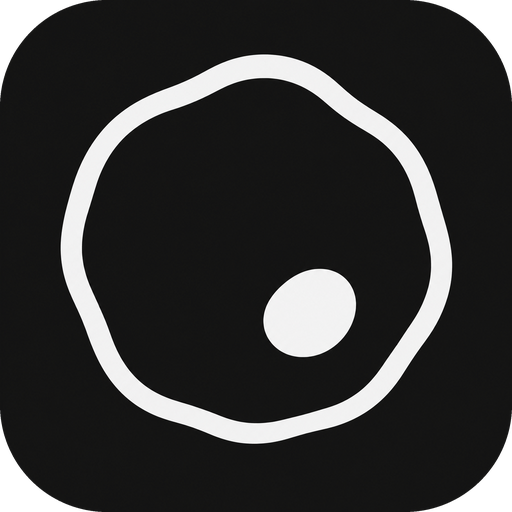
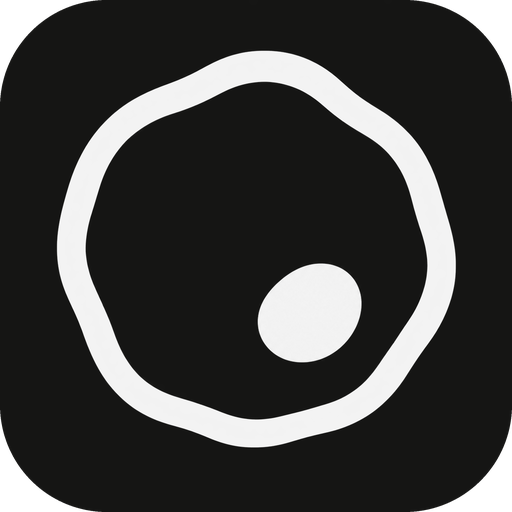
2.2.10: bolder oncOS cell and Orbit loader

diff --git a/cell-loader.js b/cell-loader.js
@@ -26,7 +26,7 @@ globalThis.OncosCellLoader = (() => {
 
   // One shared texture and animation clock for every visible loader.
   const textureSize = 256, instances = new Map();
-  let alpha = null, frame = 0, lastPaint = -Infinity, dirty = true;
+  let alpha = null, frame = 0, dirty = true;
   let reduced;
   function sample(x, y) {
     x *= textureSize - 1; y *= textureSize - 1;
@@ -36,32 +36,42 @@ globalThis.OncosCellLoader = (() => {
       +(alpha[i+textureSize]*(1-fx)+alpha[i+textureSize+1]*fx)*fy;
   }
   function geometry(n) {
-    const result=new Float32Array(n*n*5);
+    const result=new Float32Array(n*n*6);
     for(let y=0;y<n;y++)for(let x=0;x<n;x++){
-      const dx=(x+.5)/n-.5,dy=(y+.5)/n-.49,r=Math.hypot(dx,dy),a=Math.atan2(dy,dx),i=(y*n+x)*5;
+      const dx=(x+.5)/n-.5,dy=(y+.5)/n-.49,r=Math.hypot(dx,dy),i=(y*n+x)*6;
       const t=Math.max(0,Math.min(1,(r-.23)/.14));
-      result[i]=dx;result[i+1]=dy;result[i+2]=r ? t*t*(3-2*t)/r : 0;
-      result[i+3]=a;result[i+4]=r;
+      result[i]=dx;result[i+1]=dy;result[i+2]=r;
+      result[i+3]=r?dx/r:0;result[i+4]=r?dy/r:0;result[i+5]=t*t*(3-2*t);
     }
     return result;
   }
-  function paint(item, phase, moving) {
+  // Orbit (2026-09-29, Jonan: "more distinct and snappy"): the nucleus ticks
+  // round the cell in five quick steps, 0.24 s each, with a slight overshoot;
+  // the membrane bulges where it lands. At rest (reduced motion) the artwork
+  // is drawn unchanged.
+  const home=[.607,.612], orbit=Math.hypot(home[0]-.5,home[1]-.49), rest=Math.atan2(home[1]-.49,home[0]-.5);
+  const back=x=>1+2.70158*(x-1)**3+1.70158*(x-1)**2;
+  function pose(t) {
+    const step=.24,k=Math.floor(t/step),f=Math.min(1,(t%step)/step/.6),kick=Math.sin(Math.PI*f);
+    const angle=rest+(k+back(f))*2*Math.PI/5;
+    return {angle,kick,nx:.5+orbit*Math.cos(angle),ny:.49+orbit*Math.sin(angle)};
+  }
+  function paint(item, time, moving) {
     const {ctx,pixels,n,mesh,color}=item, out=pixels.data;
-    const wave=moving?1:0;
-    const nx=.607+wave*.022*Math.sin(phase+.6),ny=.612+wave*.018*Math.sin(phase*1.3);
-    const rotation=wave*.10*Math.sin(phase),co=Math.cos(rotation),si=Math.sin(rotation);
-    const stretch=1+wave*.035*Math.sin(phase*2);
+    const {angle,kick,nx,ny}=moving?pose(time):{angle:rest,kick:0,nx:home[0],ny:home[1]};
+    const rotation=angle-rest,co=Math.cos(rotation),si=Math.sin(rotation);
+    const stretch=1+.14*kick,scale=1-.015*kick,bulge=.022*(.5+.5*kick)*(moving?1:0);
+    const bx=Math.cos(angle),by=Math.sin(angle);
     for(let p=0;p<n*n;p++){
-      const i=p*5,dx=mesh[i],dy=mesh[i+1],a=mesh[i+3];
-      // Travelling membrane ripples change the contour locally, not its
-      // position as a rigid object. The centre and average radius stay put.
-      const radial=1-wave*(.026*Math.sin(3*a+phase)+.012*Math.sin(2*a-phase*1.5))*mesh[i+2];
-      const sx=.5+dx*radial,sy=.49+dy*radial;
-      let membrane=(sx>.49&&sx<.72&&sy>.49&&sy<.72)?0:sample(sx,sy);
+      const i=p*6,dx=mesh[i],dy=mesh[i+1],ex=mesh[i+3],ey=mesh[i+4],w=mesh[i+5];
+      // The membrane bulges towards the nucleus; its centre stays put.
+      const facing=Math.max(0,ex*bx+ey*by),rs=mesh[i+2]/scale-bulge*facing**4*w;
+      const sx=.5+ex*rs,sy=.49+ey*rs;
+      const membrane=(sx>.49&&sx<.72&&sy>.49&&sy<.72)?0:sample(sx,sy);
       const ux=dx+.5-nx,uy=dy+.49-ny;
-      const cx=.607+(ux*co+uy*si)/stretch,cy=.612+(-ux*si+uy*co)*stretch;
+      const cx=home[0]+(ux*co+uy*si)/stretch,cy=home[1]+(-ux*si+uy*co)*stretch;
       const nucleus=(cx>.49&&cx<.72&&cy>.49&&cy<.72)?sample(cx,cy):0;
-      const j=p*4;out[j]=color[0];out[j+1]=color[1];out[j+2]=color[2];out[j+3]=Math.max(membrane,nucleus);
+      const j=p*4;out[j]=color[0];out[j+1]=color[1];out[j+2]=color[2];out[j+3]=membrane>nucleus?membrane:nucleus;
     }
     ctx.putImageData(pixels,0,0);
     item.element.classList.add('cell-loader-ready');
@@ -83,8 +93,6 @@ globalThis.OncosCellLoader = (() => {
     frame=0;
     if(document.hidden)return;
     const moving=!reduced.matches;
-    if(moving&&time-lastPaint<1000/30){schedule();return;}
-    lastPaint=time;
     let visible=0;
     for(const [element,item] of instances){
       if(!element.isConnected){instances.delete(element);continue;}
@@ -97,7 +105,7 @@ globalThis.OncosCellLoader = (() => {
         const rgb=getComputedStyle(element).color.match(/[\d.]+/g)||[243,243,243];
         item.color=rgb.slice(0,3).map(Number);
       }
-      paint(item,moving?time/1000*1.65:0,moving);
+      paint(item,time/1000,moving);
     }
     dirty=false;
     if(visible&&moving)schedule();

diff --git a/sw.js b/sw.js
@@ -2,7 +2,7 @@
  * Cache name is a content hash of the app files, so each real change ships a
  * fresh cache. Fetch is NETWORK-FIRST: try the network, fall back to cache
  * offline. This is the OncOS PWA rule — never date-versioned cache-first. */
-const CACHE = 'oncos-one-e8a4993c339f';
+const CACHE = 'oncos-one-6a845d2d8c80';
 const CACHE_PREFIX = 'oncos-one-';
 const ASSETS = [
   '././',

diff --git a/index.html b/index.html
@@ -3,7 +3,7 @@
 <head>
 <meta charset="utf-8">
 <meta name="viewport" content="width=device-width, initial-scale=1, viewport-fit=cover">
-<meta name="application-version" content="2.2.9">
+<meta name="application-version" content="2.2.10">
 <title>oncOS</title>
 <link rel="manifest" href="/manifest.webmanifest">
 <meta name="theme-color" content="#faf9f5">

diff --git a/CHANGELOG.md b/CHANGELOG.md
@@ -2,6 +2,10 @@
 
 All notable oncOS frontend releases are recorded here. Versions follow semantic versioning.
 
+## [2.2.10] - 2026-09-29
+
+- The oncOS cell has a heavier ring and a larger nucleus, in the app icons and the loader. While a module loads, the nucleus now ticks round the cell in five quick steps instead of drifting.
+
 ## [2.2.9] - 2026-09-25
 
 - Opening an Evidence search result now shows the entry on its own disease sheet instead of the all-sheets list.
